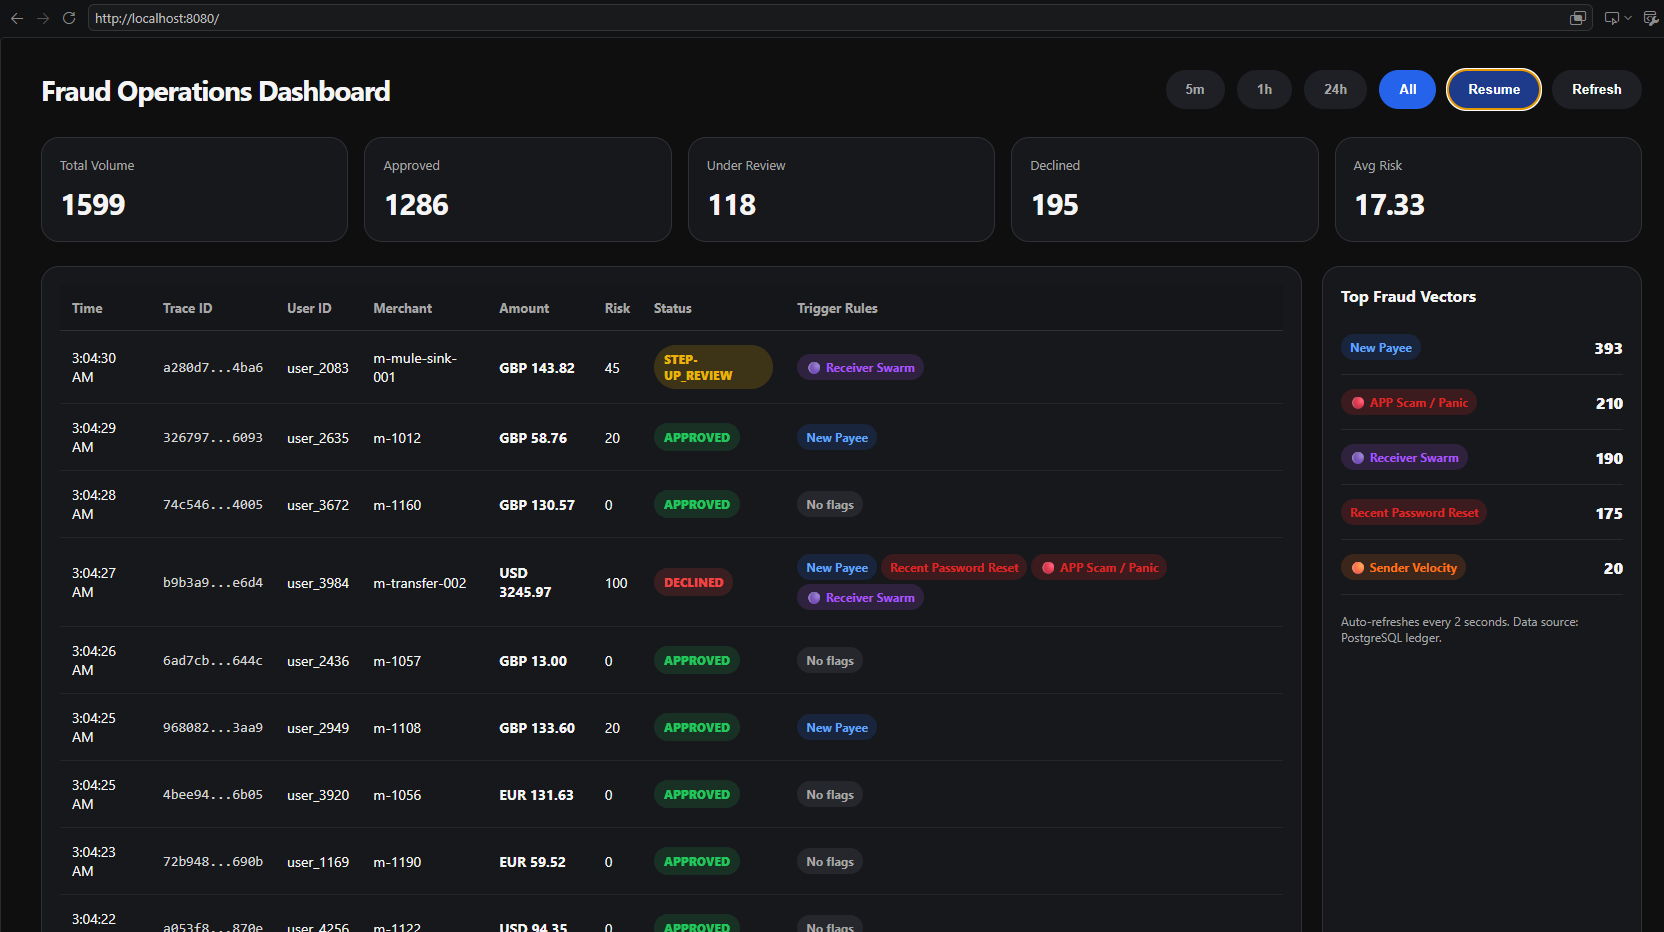
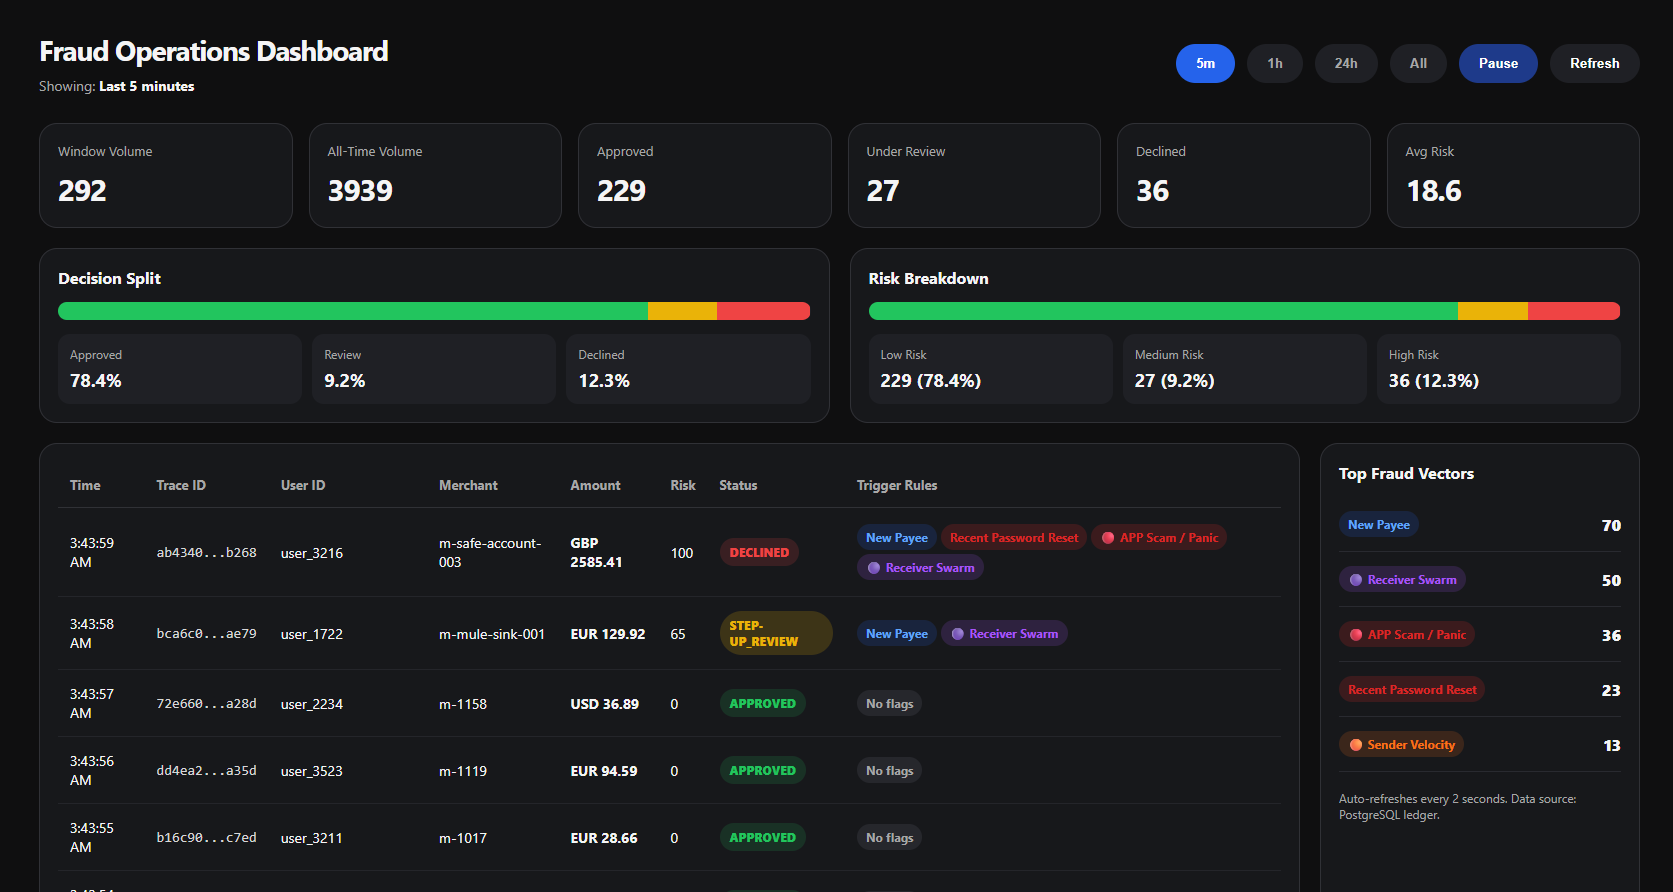
Improve the fraud dashboard visuals

diff --git a/dashboard.py b/dashboard.py
@@ -11,17 +11,17 @@ from database import AsyncSessionLocal
 app = FastAPI(title="Fraud Operations Dashboard", version="1.0.0")
 
 WINDOW_SECONDS: dict[str, int | None] = {
-    "5m": 5 * 60,
-    "1h": 60 * 60,
-    "24h": 24 * 60 * 60,
-    "all": None,
+"5m": 5 * 60,
+"1h": 60 * 60,
+"24h": 24 * 60 * 60,
+"all": None,
 }
 
 WINDOW_LABELS: dict[str, str] = {
-    "5m": "Last 5 minutes",
-    "1h": "Last 1 hour",
-    "24h": "Last 24 hours",
-    "all": "All time",
+"5m": "Last 5 minutes",
+"1h": "Last 1 hour",
+"24h": "Last 24 hours",
+"all": "All time",
 }
 
 
@@ -45,6 +45,12 @@ def build_time_filter(window: str) -> tuple[str, dict[str, Any], str]:
         {"window_seconds": window_seconds},
         selected_window,
     )
+
+def percentage(part: int, total: int) -> float:
+    if total == 0:
+        return 0.0
+
+    return round((part / total) * 100, 1)
 
 
 DASHBOARD_HTML = """
@@ -148,7 +154,7 @@ DASHBOARD_HTML = """
         display: grid;
         grid-template-columns: repeat(6, 1fr);
         gap: 16px;
-        margin-bottom: 24px;
+        margin-bottom: 20px;
     }
 
     .card {
@@ -168,6 +174,74 @@ DASHBOARD_HTML = """
         font-size: 30px;
         font-weight: 750;
         letter-spacing: -0.04em;
+    }
+
+    .analytics {
+        display: grid;
+        grid-template-columns: 1fr 1fr;
+        gap: 20px;
+        margin-bottom: 20px;
+    }
+
+    .analytics-title {
+        margin: 0 0 14px;
+        font-size: 16px;
+    }
+
+    .stacked-bar {
+        display: flex;
+        overflow: hidden;
+        height: 18px;
+        border-radius: 999px;
+        background: var(--panel-soft);
+        margin-bottom: 14px;
+    }
+
+    .bar-approved {
+        background: var(--green);
+    }
+
+    .bar-review {
+        background: var(--yellow);
+    }
+
+    .bar-declined {
+        background: var(--red);
+    }
+
+    .bar-low {
+        background: var(--green);
+    }
+
+    .bar-medium {
+        background: var(--yellow);
+    }
+
+    .bar-high {
+        background: var(--red);
+    }
+
+    .legend {
+        display: grid;
+        grid-template-columns: repeat(3, 1fr);
+        gap: 10px;
+    }
+
+    .legend-item {
+        background: var(--panel-soft);
+        border-radius: 12px;
+        padding: 12px;
+    }
+
+    .legend-label {
+        color: var(--muted);
+        font-size: 12px;
+        margin-bottom: 6px;
+    }
+
+    .legend-value {
+        font-size: 18px;
+        font-weight: 750;
     }
 
     .layout {
@@ -302,6 +376,10 @@ DASHBOARD_HTML = """
         .kpis {
             grid-template-columns: repeat(3, 1fr);
         }
+
+        .analytics {
+            grid-template-columns: 1fr;
+        }
     }
 
     @media (max-width: 1100px) {
@@ -321,6 +399,10 @@ DASHBOARD_HTML = """
         .layout {
             grid-template-columns: 1fr;
         }
+
+        .legend {
+            grid-template-columns: 1fr;
+        }
     }
 </style>
 
@@ -336,7 +418,7 @@ DASHBOARD_HTML = """
                 </div>
             </div>
 
- 
+
         <div class="controls">
             <button class="window-button" id="window-5m" onclick="setWindow('5m')">5m</button>
             <button class="window-button active" id="window-1h" onclick="setWindow('1h')">1h</button>
@@ -376,6 +458,58 @@ DASHBOARD_HTML = """
         <div class="card">
             <div class="kpi-label">Avg Risk</div>
             <div class="kpi-value" id="avg-risk">0</div>
+        </div>
+    </section>
+
+    <section class="analytics">
+        <div class="card">
+            <h2 class="analytics-title">Decision Split</h2>
+
+            <div class="stacked-bar">
+                <div class="bar-approved" id="decision-approved-bar"></div>
+                <div class="bar-review" id="decision-review-bar"></div>
+                <div class="bar-declined" id="decision-declined-bar"></div>
+            </div>
+
+            <div class="legend">
+                <div class="legend-item">
+                    <div class="legend-label">Approved</div>
+                    <div class="legend-value" id="approved-percent">0%</div>
+                </div>
+                <div class="legend-item">
+                    <div class="legend-label">Review</div>
+                    <div class="legend-value" id="review-percent">0%</div>
+                </div>
+                <div class="legend-item">
+                    <div class="legend-label">Declined</div>
+                    <div class="legend-value" id="declined-percent">0%</div>
+                </div>
+            </div>
+        </div>
+
+        <div class="card">
+            <h2 class="analytics-title">Risk Breakdown</h2>
+
+            <div class="stacked-bar">
+                <div class="bar-low" id="risk-low-bar"></div>
+                <div class="bar-medium" id="risk-medium-bar"></div>
+                <div class="bar-high" id="risk-high-bar"></div>
+            </div>
+
+            <div class="legend">
+                <div class="legend-item">
+                    <div class="legend-label">Low Risk</div>
+                    <div class="legend-value" id="low-risk-count">0</div>
+                </div>
+                <div class="legend-item">
+                    <div class="legend-label">Medium Risk</div>
+                    <div class="legend-value" id="medium-risk-count">0</div>
+                </div>
+                <div class="legend-item">
+                    <div class="legend-label">High Risk</div>
+                    <div class="legend-value" id="high-risk-count">0</div>
+                </div>
+            </div>
         </div>
     </section>
 
@@ -438,6 +572,10 @@ DASHBOARD_HTML = """
         loadStats();
     }
 
+    function setBarWidth(id, value) {
+        document.getElementById(id).style.width = `${value}%`;
+    }
+
     function truncate(value) {
         if (!value) return "";
         if (value.length <= 12) return value;
@@ -485,6 +623,34 @@ DASHBOARD_HTML = """
         return date.toLocaleTimeString();
     }
 
+    function updateDecisionSplit(data) {
+        const approvedPercent = data.decision_percentages.approved;
+        const reviewPercent = data.decision_percentages.step_up_review;
+        const declinedPercent = data.decision_percentages.declined;
+
+        setBarWidth("decision-approved-bar", approvedPercent);
+        setBarWidth("decision-review-bar", reviewPercent);
+        setBarWidth("decision-declined-bar", declinedPercent);
+
+        document.getElementById("approved-percent").textContent = `${approvedPercent}%`;
+        document.getElementById("review-percent").textContent = `${reviewPercent}%`;
+        document.getElementById("declined-percent").textContent = `${declinedPercent}%`;
+    }
+
+    function updateRiskBreakdown(data) {
+        const low = data.risk_breakdown.low;
+        const medium = data.risk_breakdown.medium;
+        const high = data.risk_breakdown.high;
+
+        setBarWidth("risk-low-bar", low.percent);
+        setBarWidth("risk-medium-bar", medium.percent);
+        setBarWidth("risk-high-bar", high.percent);
+
+        document.getElementById("low-risk-count").textContent = `${low.count} (${low.percent}%)`;
+        document.getElementById("medium-risk-count").textContent = `${medium.count} (${medium.percent}%)`;
+        document.getElementById("high-risk-count").textContent = `${high.count} (${high.percent}%)`;
+    }
+
     async function loadStats() {
         if (paused) return;
 
@@ -498,6 +664,9 @@ DASHBOARD_HTML = """
         document.getElementById("review").textContent = data.step_up_review;
         document.getElementById("declined").textContent = data.declined;
         document.getElementById("avg-risk").textContent = data.average_risk_score;
+
+        updateDecisionSplit(data);
+        updateRiskBreakdown(data);
 
         const feed = document.getElementById("transaction-feed");
 
@@ -549,15 +718,14 @@ DASHBOARD_HTML = """
 </html>
 """
 
-
 @app.get("/", response_class=HTMLResponse)
 async def dashboard_home() -> HTMLResponse:
     return HTMLResponse(DASHBOARD_HTML)
 
-
 @app.get("/api/stats")
 async def dashboard_stats(window: str = "1h") -> JSONResponse:
     time_filter, query_params, selected_window = build_time_filter(window)
+
 
     async with AsyncSessionLocal() as session:
         status_result = await session.execute(
@@ -573,7 +741,8 @@ async def dashboard_stats(window: str = "1h") -> JSONResponse:
         )
 
     status_counts = {
-        str(row["status"]): int(row["row_count"]) for row in status_result.mappings()
+        str(row["status"]): int(row["row_count"])
+        for row in status_result.mappings()
     }
 
     summary_result = await session.execute(
@@ -589,6 +758,7 @@ async def dashboard_stats(window: str = "1h") -> JSONResponse:
         query_params,
     )
     summary = summary_result.one()
+    total_volume = int(summary.total_volume)
 
     all_time_result = await session.execute(
         text(
@@ -599,6 +769,29 @@ async def dashboard_stats(window: str = "1h") -> JSONResponse:
         )
     )
     all_time_summary = all_time_result.one()
+
+    risk_result = await session.execute(
+        text(
+            f"""
+            SELECT
+                CASE
+                    WHEN risk_score < 40 THEN 'low'
+                    WHEN risk_score < 70 THEN 'medium'
+                    ELSE 'high'
+                END AS risk_band,
+                COUNT(*) AS row_count
+            FROM transactions
+            {time_filter}
+            GROUP BY risk_band
+            """
+        ),
+        query_params,
+    )
+
+    risk_counts = {
+        str(row["risk_band"]): int(row["row_count"])
+        for row in risk_result.mappings()
+    }
 
     vectors_result = await session.execute(
         text(
@@ -670,15 +863,42 @@ async def dashboard_stats(window: str = "1h") -> JSONResponse:
             }
         )
 
+    approved = status_counts.get("APPROVED", 0)
+    step_up_review = status_counts.get("STEP-UP_REVIEW", 0)
+    declined = status_counts.get("DECLINED", 0)
+
+    low_risk = risk_counts.get("low", 0)
+    medium_risk = risk_counts.get("medium", 0)
+    high_risk = risk_counts.get("high", 0)
+
     payload: dict[str, Any] = {
         "window": selected_window,
         "window_label": WINDOW_LABELS[selected_window],
-        "total_volume": int(summary.total_volume),
+        "total_volume": total_volume,
         "all_time_volume": int(all_time_summary.total_volume),
-        "approved": status_counts.get("APPROVED", 0),
-        "step_up_review": status_counts.get("STEP-UP_REVIEW", 0),
-        "declined": status_counts.get("DECLINED", 0),
+        "approved": approved,
+        "step_up_review": step_up_review,
+        "declined": declined,
         "average_risk_score": float(summary.average_risk_score),
+        "decision_percentages": {
+            "approved": percentage(approved, total_volume),
+            "step_up_review": percentage(step_up_review, total_volume),
+            "declined": percentage(declined, total_volume),
+        },
+        "risk_breakdown": {
+            "low": {
+                "count": low_risk,
+                "percent": percentage(low_risk, total_volume),
+            },
+            "medium": {
+                "count": medium_risk,
+                "percent": percentage(medium_risk, total_volume),
+            },
+            "high": {
+                "count": high_risk,
+                "percent": percentage(high_risk, total_volume),
+            },
+        },
         "top_fraud_vectors": [
             {
                 "reason": str(row["reason"]),
@@ -690,3 +910,4 @@ async def dashboard_stats(window: str = "1h") -> JSONResponse:
     }
 
     return JSONResponse(payload)
+